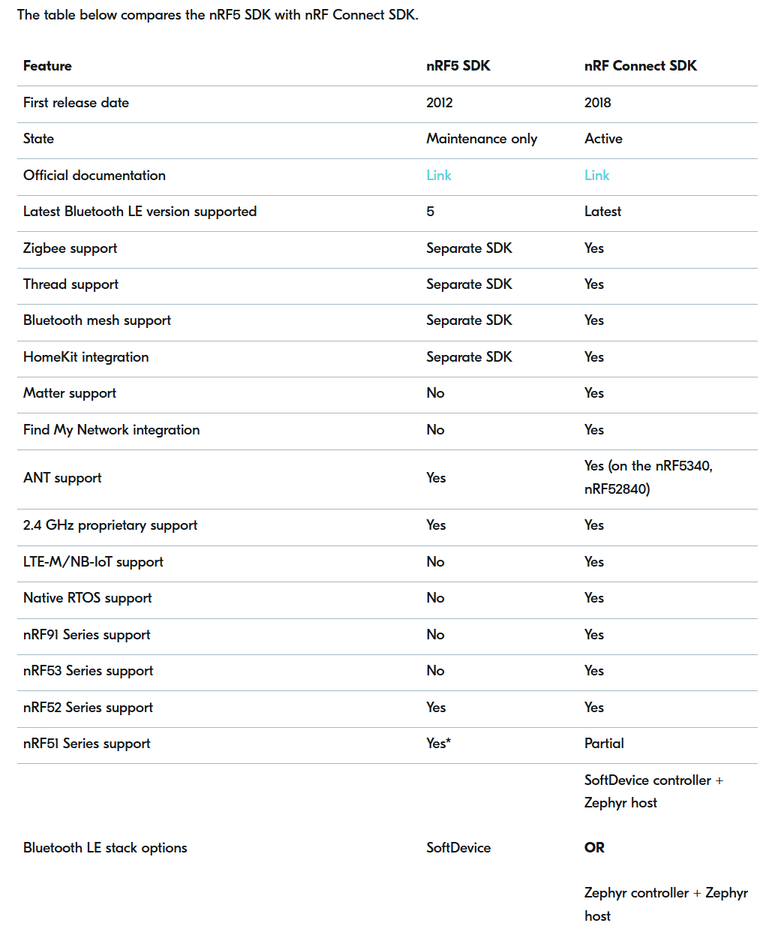
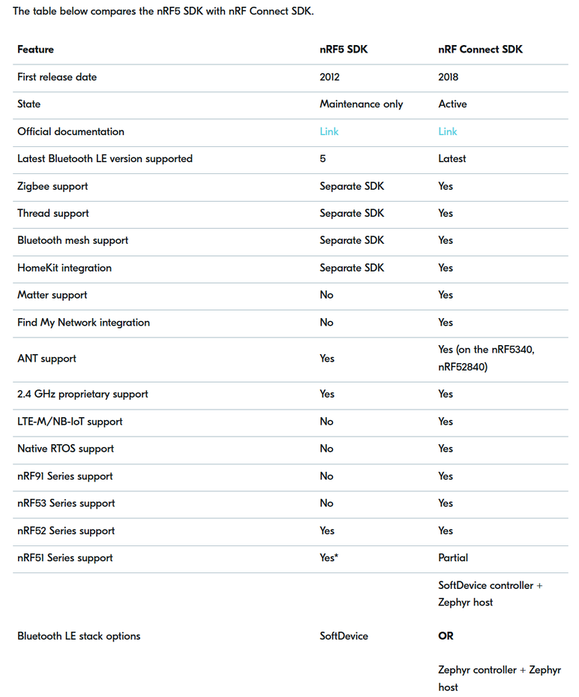
安装环境搭建

diff --git a/chapters/ch01_environment_setup/README.md b/chapters/ch01_environment_setup/README.md
@@ -1,5 +1,11 @@
 # 开发环境搭建
 
+搭建开发环境，需要下载的资源：
+
++ nRF5 SDK: v17.1.0
++ SofDevice : S140
++ IDE : SEGGER Embedded Studio for ARM v5.42b
+
 ## [nRF52840芯片特性](https://www.nordicsemi.com/Products/nRF52840)
 
 + 64M CPU主频
@@ -31,5 +37,57 @@ Nordic官方提供了2套SDK：nRF Connect SDK(新)、nRF5 SDK(在线)。[两个
 
 ![](./images/002.png)
 
-我们学习nRF52840，选择nRF5 SDK
+我们学习nRF52840，选择nRF5 SDK。原因是nRF5 SDK有丰富的例程代码，有详细的底层技术细节，能学到更多的基础知识。
 
+## [nRF5 SDK选择+下载](https://www.nordicsemi.com/Products/Development-software/nRF5-SDK/)
+
+在这一部分，我们需要下载nRF5 SDK和SoftDevice协议栈。
+
+### nRF5 SDK v17.1.0
+
+前面nRF5 SDK Brief图片中提到了v17.1.0版本，而最新的v17.1.1只是增加了NFC安全更新，我们用不到。所以，选择nRF5 SDK v17.1.0版本。
+
+![](./images/003.png)
+
+### SoftDevice s140
+
+SoftDevice s140是资源最丰富、综合性能最好、最稳定的协议栈版本。
+
+![](./images/004.png)
+
+nRF5 SDK + s140下载内容：
+
+![](./images/005.png)
+
+## nRF5开发IDE
+
+nRF5 SDK支持多款开发IDE。前面下载了nRF5 SDK 17.1.0，SDK里面release_notes.txt介绍了当前SDK测试验证的SDK，已经对应版本。
+
+release_notes.txt文件路径：
+
+![](./images/006.png)
+
+nRF5 SDK 11.7.0支持的IDE及版本：
+
++ Keil MDK : 5.25
++ IAR : 7.80.4
++ SEGGER Embedded Studio For ARM(推荐) : 5.42a
++ GCC
+
+![](./images/007.png)
+
+Nordic官方推荐使用SES来进行开发，看下如何下载。
+
+### [SEGGER Embedded Studio下载](https://www.segger.com/downloads/embedded-studio/)
+
+![](./images/008.png)
+
+我们可以选择下载5.42a，也可以下载5.42b，这俩都可以。5.42b只是更新了J-Link驱动，根据社区描述，5.42b是能够长期使用的稳定版本。
+
+arm_segger_studio_release_notes路径：`SEGGER Embedded Studio/html/arm_segger_studio_release_notes.htm`
+
+![](./images/009.png)
+
+### SEGGER Embedded Studio for ARM 5.42b安装完成
+
+![](./images/010.png)
